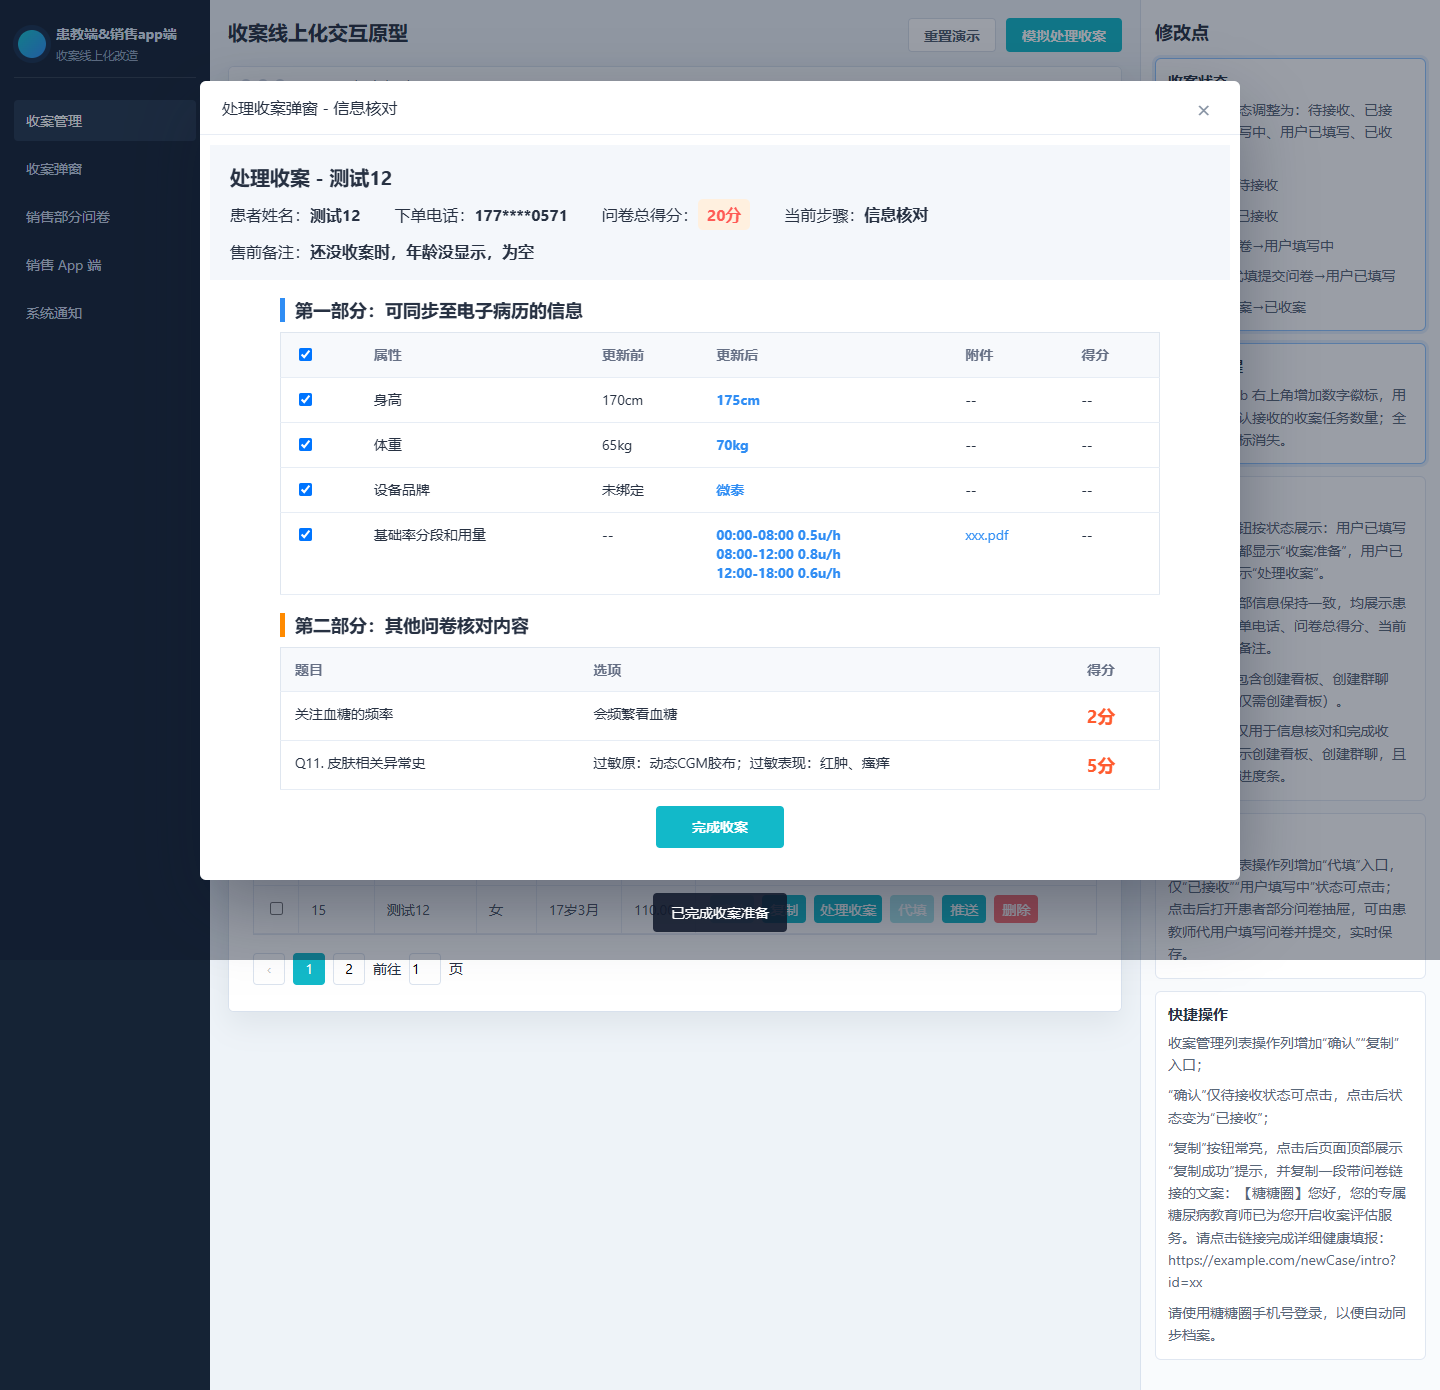
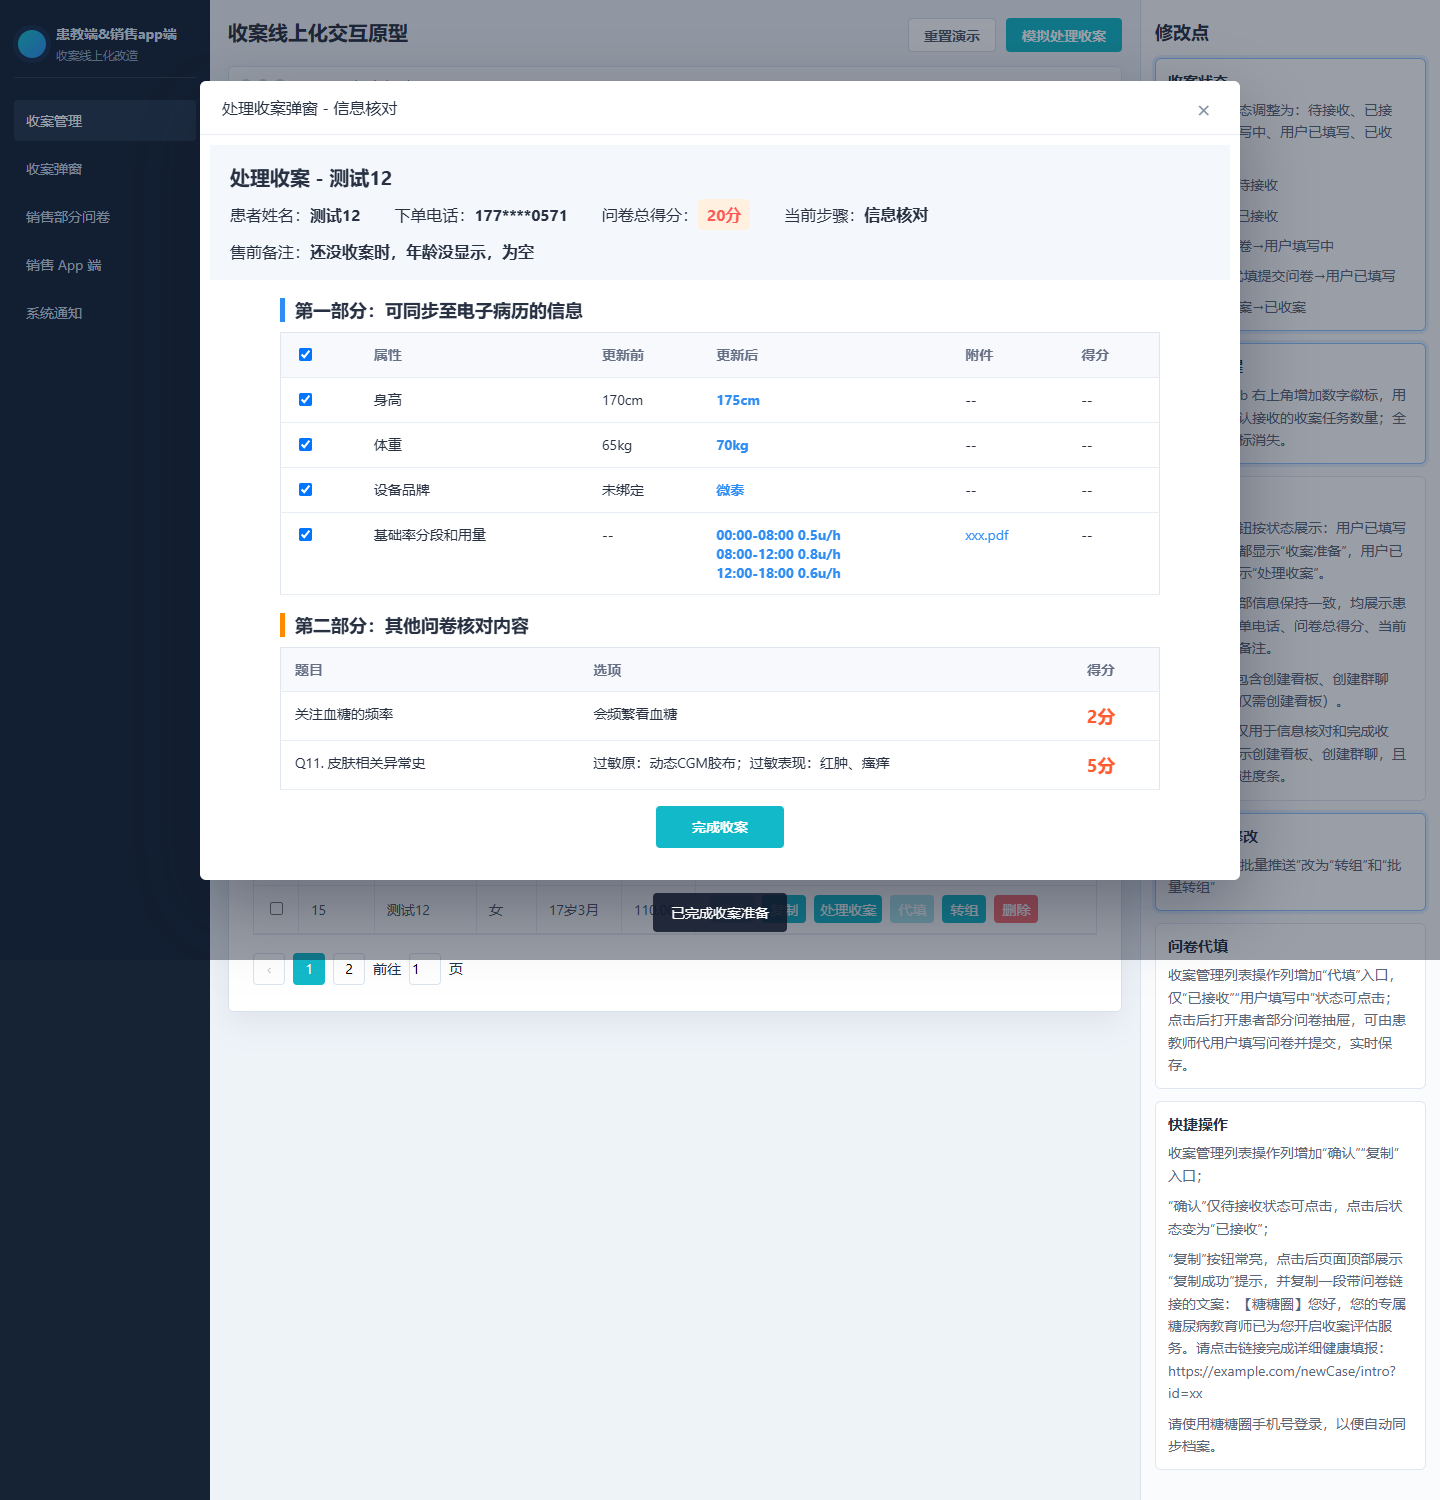
Update intake prototype review notes

diff --git a/index.html b/index.html
@@ -105,7 +105,7 @@
 
             <div class="table-toolbar">
               <span>已选 0 条，共 10 条</span>
-              <button class="primary-btn compact muted">批量推送</button>
+              <button class="primary-btn compact muted">批量转组</button>
             </div>
 
             <section class="data-table-wrap">
@@ -649,6 +649,10 @@
         <p>“收案准备”包含创建看板、创建群聊（试戴用户仅需创建看板）。</p>
         <p>“处理收案”仅用于信息核对和完成收案，不再展示创建看板、创建群聊，且不展示步骤进度条。</p>
       </div>
+      <div class="note-card" data-note="list">
+        <h3>按钮名称修改</h3>
+        <p>原“推送”和“批量推送”改为“转组”和“批量转组”</p>
+      </div>
       <div class="note-card">
         <h3>问卷代填</h3>
         <p>收案管理列表操作列增加“代填”入口，仅“已接收”“用户填写中”状态可点击；点击后打开患者部分问卷抽屉，可由患教师代用户填写问卷并提交，实时保存。</p>
@@ -667,11 +671,12 @@
         <p>3、如果本页中未展示的题目，就算满足原有显隐逻辑，也不在销售部分展示，例如吸烟、饮酒。</p>
         <p>4、其他修改点（患者端也要改）：治疗方案选了餐前+基础或预混后的“基础胰岛素注射剂量”改为系统计算，=输注剂量之和。</p>
         <p>5、销售提交新收案时，若下单电话命中进行中的收案任务，系统按下单号码、发起经理和患者姓名关系弹出“温馨提醒”并阻止提交；进行中范围为待接收、已接收、用户填写中、用户已填写、已收案但还未开启密集照护、密集照护中。</p>
+        <p>6、所有选项和子题目选项，都改为左对齐，本页中的“主要想改善的问题”为示例效果。</p>
 
       </div>
       <div class="note-card" data-note="sales-app">
         <h3>销售 App 端</h3>
-        <p>1、销售在糖糖圈 App 内可查看所有用户，每个用户卡片直接展示“新收案”和“收案管理”。</p>
+        <p>1、经授权的销售登录糖糖圈 App 后，通过App内的悬浮窗（见“系统通知”页），进入客户池页面，可查看所有用户。</p>
         <p>2、“新收案”复用已做好的销售部分问卷，填写和提交口径保持不变。</p>
         <p>3、“收案管理”按用户展示历史收案列表，列表需保留 CRM 中的收案ID、下单日期、提交时间、泵型号、当前状态、问卷详情等关键信息。</p>
         <p>4、历史收案详情常亮；编辑仅待接收、已接收、待用户填写可点；删除仅待接收可点，患教确认接收后处理权限转到患教侧。</p>
@@ -680,6 +685,11 @@
         <h3>系统通知</h3>
         <p>1、患教端点击“确认”接收收案后，给发起该收案的销售发送 App 系统通知。</p>
         <p>2、通知内容为：患教已接收患者【{昵称}】（ID：{收案 ID}）。</p>
+      </div>
+      <div class="note-card" data-note="sales-notice">
+       <h3>app悬浮入口</h3>
+       <p>在app内增加销售客户池入口，悬浮窗形式。</p>
+       <p>需要后台给销售的糖糖圈app账号增加授权，只有有权限的销售账号登录糖糖圈app才会看到这个入口。</p>
       </div>
     </aside>
   </div>

diff --git a/app.js b/app.js
@@ -105,7 +105,7 @@ function renderRows() {
             <button data-action="copy" data-id="${item.id}">复制</button>
             <button data-action="receive" data-id="${item.id}" ${receiveMeta.enabled ? "" : "disabled"}>${receiveMeta.label}</button>
             <button data-action="autofill" data-id="${item.id}" ${canAutofill ? "" : "disabled"}>代填</button>
-            <button data-action="push" data-id="${item.id}" ${canPush ? "" : "disabled"}>推送</button>
+            <button data-action="push" data-id="${item.id}" ${canPush ? "" : "disabled"}>转组</button>
             <button class="delete" data-action="delete" data-id="${item.id}" ${canDelete ? "" : "disabled"}>删除</button>
           </div>
         </td>
@@ -494,7 +494,7 @@ rows.addEventListener("click", event => {
   if (button.dataset.action === "copy") showToast("已复制问卷链接");
   if (button.dataset.action === "confirm") confirmReceive(button.dataset.id);
   if (button.dataset.action === "autofill") openAutofillDrawer(button.dataset.id);
-  if (button.dataset.action === "push") showToast("组内推送功能本次不改，发问卷入口已放入收案弹窗");
+  if (button.dataset.action === "push") showToast("转组（推送）功能本次不改，发问卷入口已放入收案弹窗");
 });
 
 receiveModal.addEventListener("click", event => {

diff --git a/styles.css b/styles.css
@@ -780,6 +780,11 @@ button {
   background: #f7f9fc;
 }
 
+.sales-long-choice button {
+  padding: 10px 12px;
+  text-align: left;
+}
+
 .sales-skin-detail {
   padding-top: 2px;
   border-top: 1px dashed #dfe6ef;
